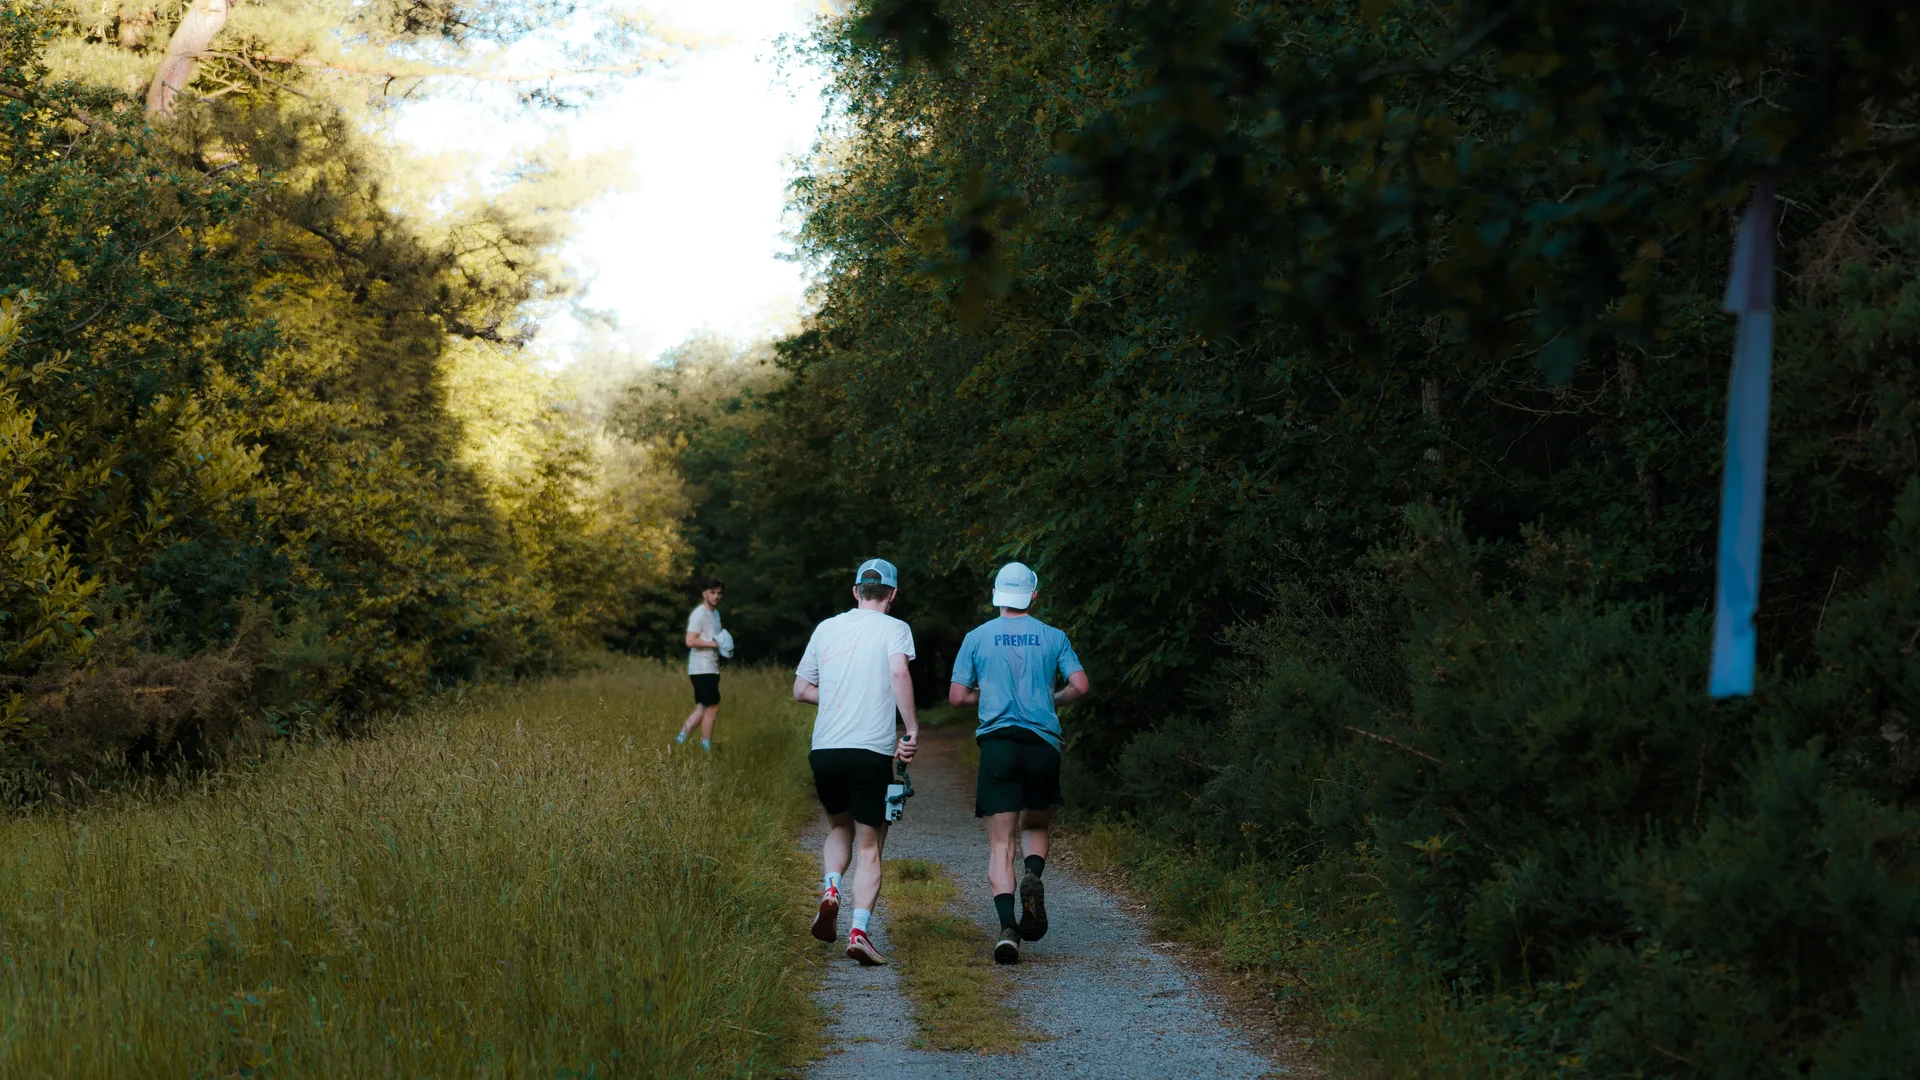
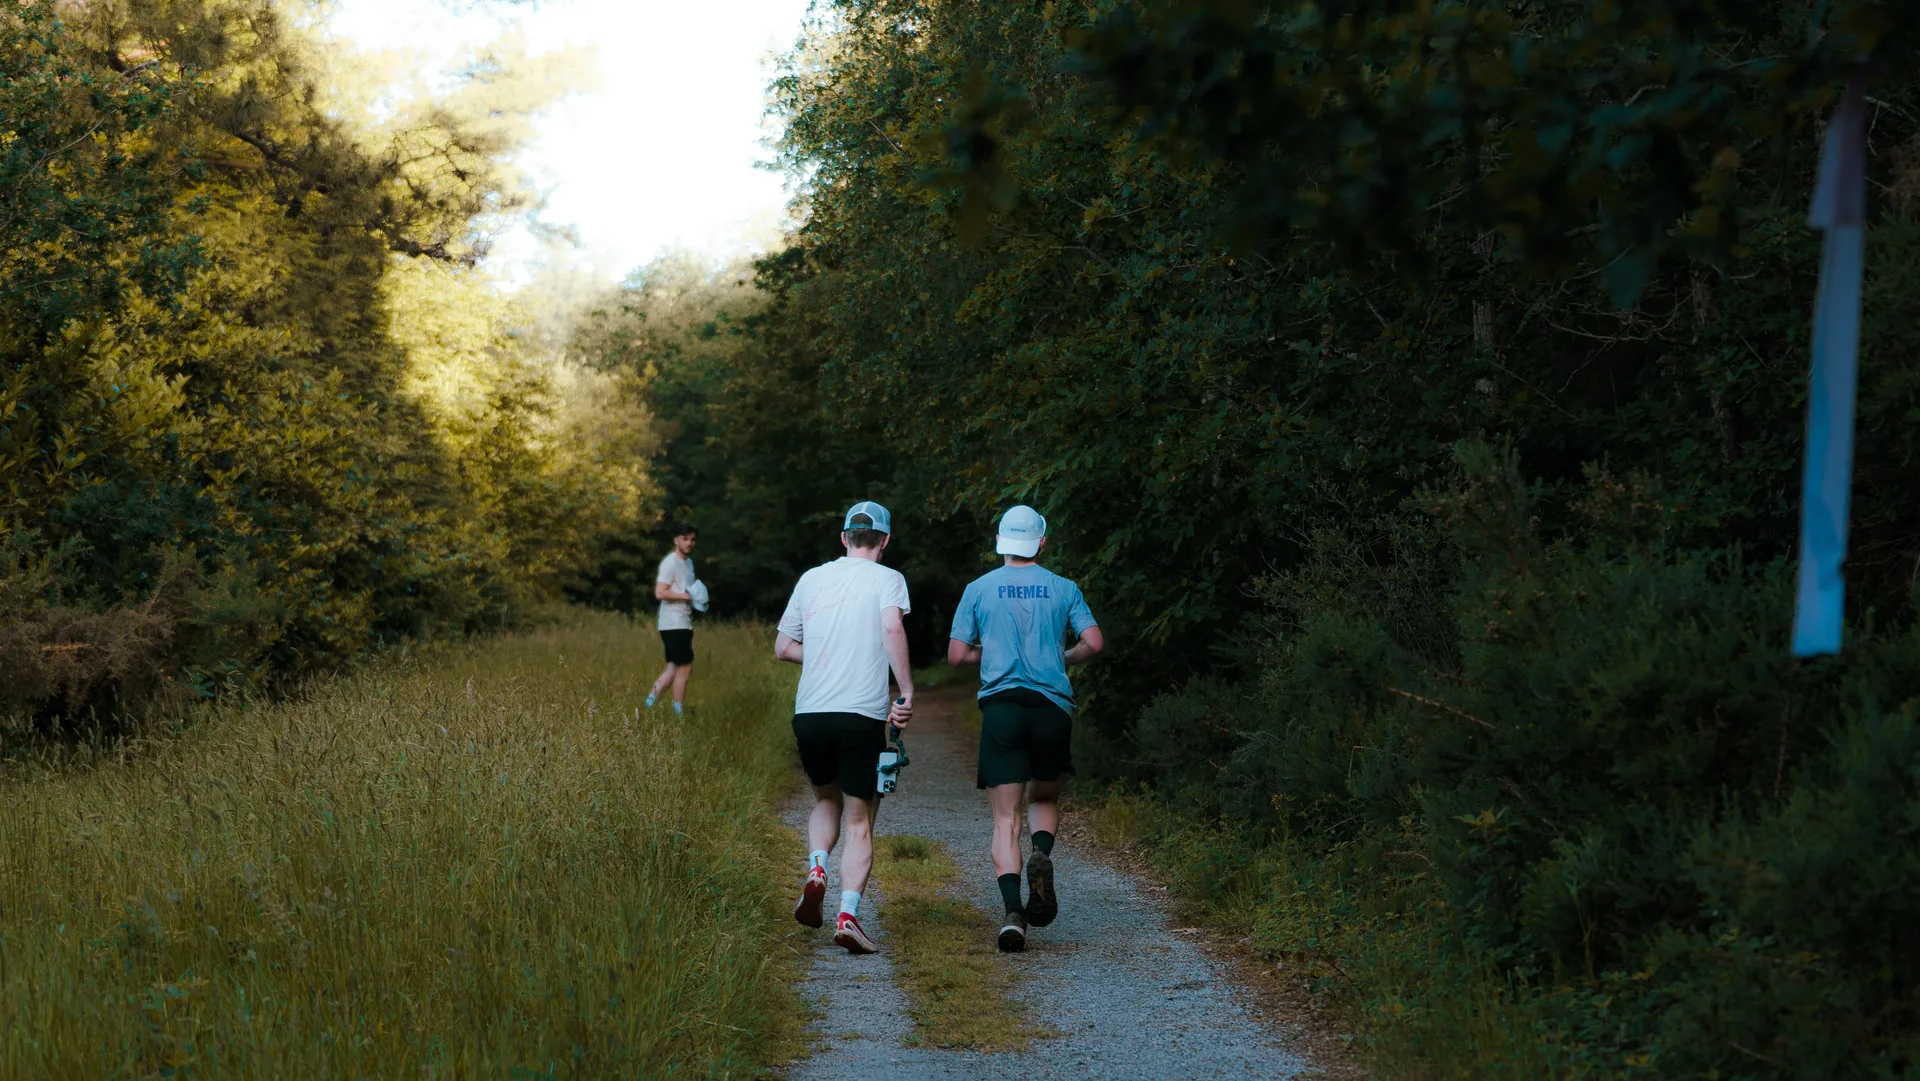
update(running): remplacement photo micro, recadrage bannière basse et phrase quatuor gagnant (#6)

diff --git a/running.html b/running.html
@@ -103,8 +103,8 @@
    <img width="800" height="1067" src="img/running-guerledan-group.webp" alt="Équipe SMAL & CO au départ à Guerlédan" loading="lazy" decoding="async">
    <img width="800" height="460" src="img/rennes2.webp" alt="Coureur SMAL & CO à Rennes" loading="lazy" decoding="async">
    <img width="1080" height="1440" src="img/running/guerledan-panneau-1080.webp" alt="Trail de Guerlédan - SMAL & CO Running" loading="lazy" decoding="async">
-   <img width="1600" height="900" src="img/running/guerledan-interview-1600.webp" alt="Interview et coulisses trail de Guerlédan - SMAL & CO Running" style="object-position:96% center" loading="lazy" decoding="async">
-   <img class="mosaic-wide" width="1920" height="1080" src="img/running/guerledan-foret-1920.webp" alt="Sortie trail en forêt de Guerlédan - SMAL & CO Running" loading="lazy" decoding="async">
+   <img width="1599" height="900" src="img/running/guerledan-trio-1600.webp" alt="Ewen en course sous le maillot SMAL & CO, encouragé par un membre de l’association" style="object-position:64% center" loading="lazy" decoding="async">
+   <img class="mosaic-wide" width="1920" height="1081" src="img/running/guerledan-foret-1920.webp" alt="Sortie trail en forêt de Guerlédan - SMAL & CO Running" style="aspect-ratio:21/9;object-position:50% 60%" loading="lazy" decoding="async">
   </div>
  </div>
 </section>
@@ -139,7 +139,7 @@
    <li><img width="897" height="745" src="img/running/team/ewen-simon.webp" alt="Ewen Simon en course avec le dossard 512" loading="lazy" decoding="async"><span>Ewen Simon</span></li>
    <li><img width="750" height="1000" src="img/running/team/ewen-premel.webp" alt="Ewen Premel en course au Trail de Guerlédan, tee-shirt SMAL & CO" loading="lazy" decoding="async"><span>Ewen Premel</span></li>
   </ul>
-  <p class="rv team-4-note" data-reveal>Imaginez Décathlon partenaire d’une Team constituée à moitié de ses propres collaborateurs : des passionnés qui incarnent et font vivre le sport au quotidien, à l’entraînement comme en compétition.</p>
+  <p class="rv team-4-note" data-reveal><strong>Un quatuor gagnant : les Ewen et les Lucas réunis dans la même équipe pour ne faire qu’un.</strong><br>Imaginez Décathlon partenaire d’une Team constituée à moitié de ses propres collaborateurs : des passionnés qui incarnent et font vivre le sport au quotidien, à l’entraînement comme en compétition.</p>
  </div>
 </section>
 

diff --git a/assets/site.css b/assets/site.css
@@ -1023,6 +1023,7 @@ h1,h2,h3,h4,.hero-title,.showcase-label,.story .step-txt time{font-family:var(--
 .team-4 li::after{content:"";position:absolute;inset:0;background:linear-gradient(0deg,rgba(0,0,0,.85) 0%,rgba(0,0,0,.25) 35%,transparent 60%)} /* dégradé sous le nom */
 .team-4 span{position:absolute;left:16px;bottom:14px;z-index:1;font:700 clamp(1.1rem,1.6vw,1.5rem)/1 var(--impact);text-transform:uppercase;color:#fff}
 .team-4-note{margin-top:24px;max-width:70ch;color:var(--muted)}
+.team-4-note strong{color:#fff}
 @media (max-width:760px){.team-4{grid-template-columns:repeat(2,1fr)}}
 .run-notice{display:inline-block;margin-bottom:clamp(28px,4vw,48px);padding:12px 18px;border:1px solid var(--accent);border-left-width:4px;font-weight:600;color:var(--head)}
 .run-offer-h{margin-bottom:16px}
